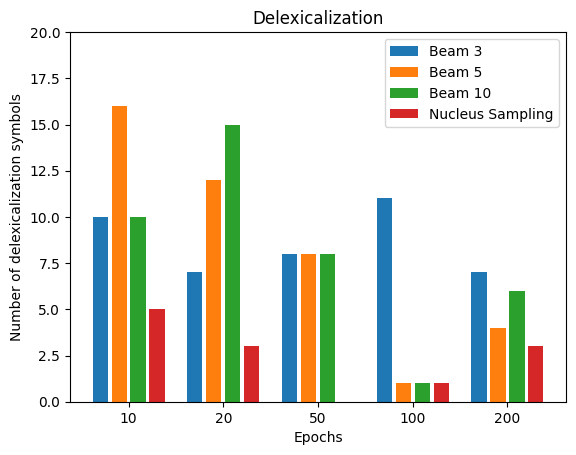
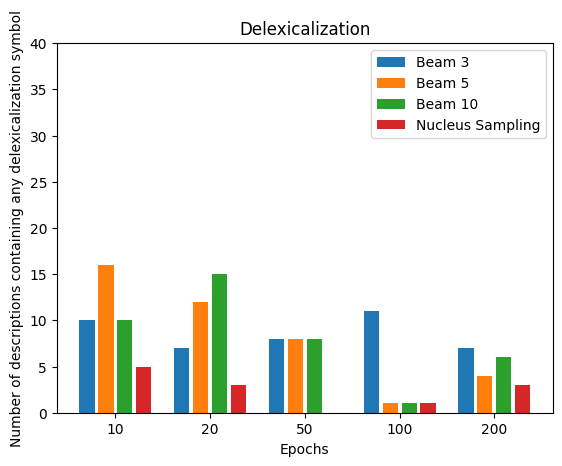
Fix tiny mistake

Changed region(s): [[0.0, 0.0, 0.9982, 0.9846]]

diff --git a/model8/parse_and_eval.py b/model8/parse_and_eval.py
@@ -477,13 +477,38 @@ def plot_delexi(delexis: OrderedDict[int, List[Tuple[str, int]]]) -> None:
     plt.bar(range(2, (num_algos+1)*num_epoch, num_algos+1), all_vals['10'], label="Beam 10")
     plt.bar(range(3, (num_algos+1)*num_epoch, num_algos+1), all_vals['nucleus'], label="Nucleus Sampling")
 
-    plt.ylim(0, 20)
+    plt.ylim(0, 40)
     plt.xlabel("Epochs")
-    plt.ylabel("Number of delexicalization symbols")
+    plt.ylabel("Number of descriptions containing any delexicalization symbol")
     plt.xticks(np.arange(num_algos/2-.5, (num_algos+1)*num_epoch, num_algos+1), ["10", "20", "50", "100", "200"])
     plt.title(f"Delexicalization")
     plt.legend()
     plt.savefig("delexi.png", bbox_inches="tight")
+
+def plot_wrong_info(wrong_info: OrderedDict[int, List[Tuple[str, int]]]) -> None:
+    plt.clf()
+    #print(delexis)
+    all_vals: OrderedDict[str, List[int]] = OrderedDict()
+
+    for key, values in delexis.items():
+        for val in values:
+            all_vals.setdefault(val[0], []).append(val[1])
+    #print("all_vals=", all_vals)
+    num_epoch = len(all_vals['3'])
+    num_algos = len(all_vals)
+    plt.bar(range(0, (num_algos+1)*num_epoch, num_algos+1), all_vals['3'], label="Beam 3")
+    plt.bar(range(1, (num_algos+1)*num_epoch, num_algos+1), all_vals['5'], label="Beam 5")
+    plt.bar(range(2, (num_algos+1)*num_epoch, num_algos+1), all_vals['10'], label="Beam 10")
+    plt.bar(range(3, (num_algos+1)*num_epoch, num_algos+1), all_vals['nucleus'], label="Nucleus Sampling")
+
+    plt.ylim(0, 40)
+    plt.xlabel("Epochs")
+    plt.ylabel("Number of descriptions containing any delexicalization symbol")
+    plt.xticks(np.arange(num_algos/2-.5, (num_algos+1)*num_epoch, num_algos+1), ["10", "20", "50", "100", "200"])
+    plt.title(f"Delexicalization")
+    plt.legend()
+    plt.savefig("delexi.png", bbox_inches="tight")
+
 
 if __name__ == '__main__':
     script: str = sys.argv[1]
@@ -505,5 +530,6 @@ if __name__ == '__main__':
     #extra_info = count_extra_info(script, chrt_inf, chrt_vals)
     row_extra_info, delexis, extra_info = generate_eval_extra_info(epoch_dict, info_script, training_data_vals)
     plot_delexi(delexis)
+    plot_wrong_info(extra_info)
     #generate_table_latex(script, annons, repetitions,extra_info)
     #generate_table_latex(script, annons, row_extra_info)
